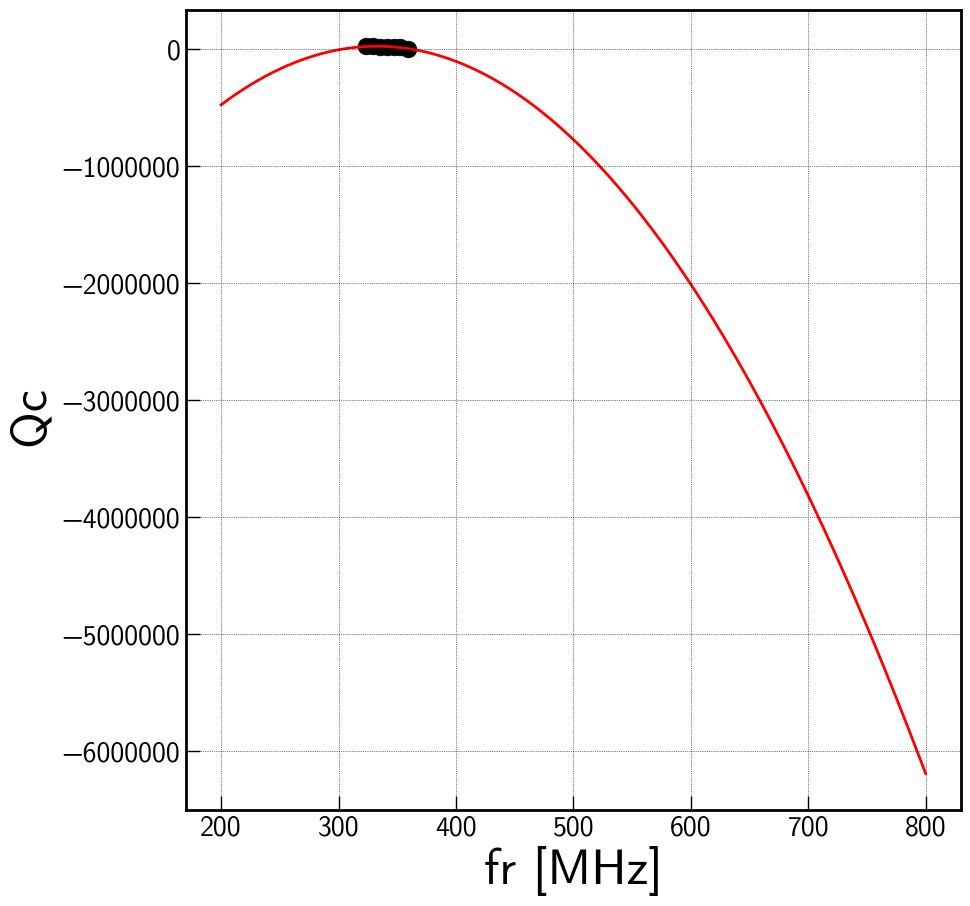
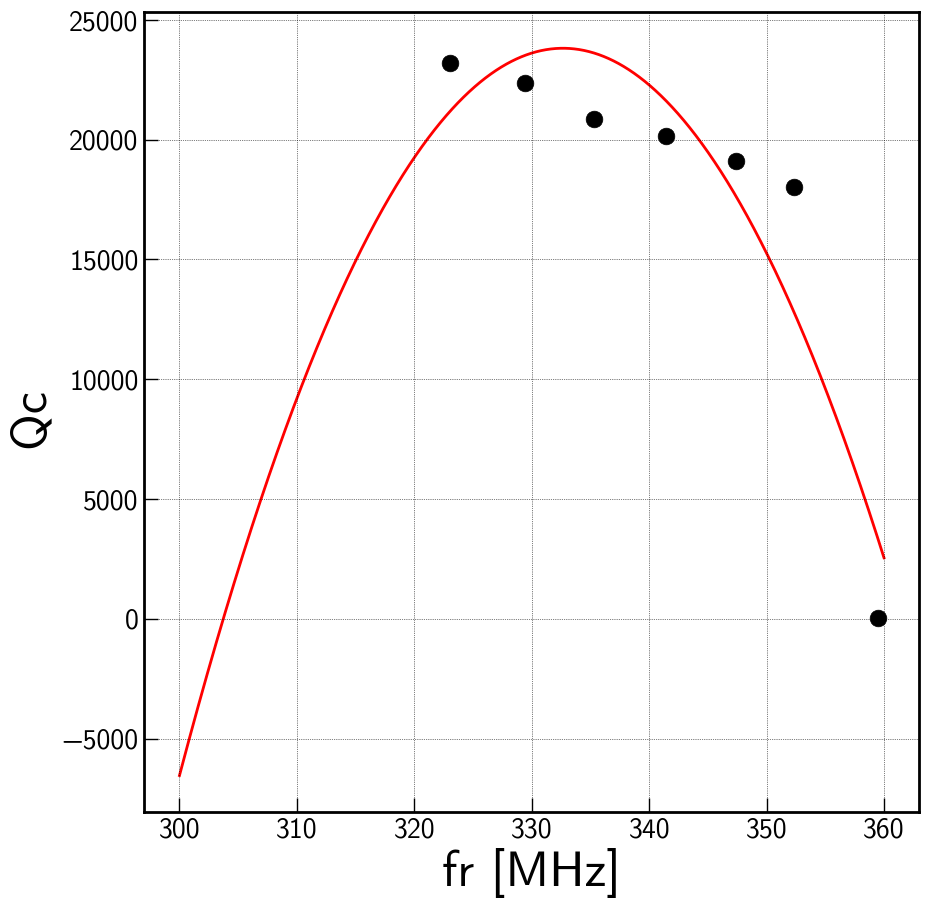
reducing the fitting range

diff --git a/code/tkidmodule_resonatorprediction.py b/code/tkidmodule_resonatorprediction.py
@@ -79,7 +79,7 @@ Qc *= (Ltot/Lind)**2
 print ("Third term in Qc ", Qc)
 
 print ("Qc from simulation vs. predicted ", Qcsim/Qc)
-print ("fr from simulation vs. predicted ", (frsim - fr)/MHz)
+print ("fr from simulation vs. predicted ", (frsim/fr))
 
 plt.figure()
 plt.plot(N, frsim/MHz, 'rs', ms=12, label='From sonnet simulation')

diff --git a/code/ACTKID_extractQcsfromfullresosims.py b/code/ACTKID_extractQcsfromfullresosims.py
@@ -1025,7 +1025,7 @@ if __name__=="__main__":
 
         p = np.polyfit(frs/f0, Qcs, 2)
         print ("Qc fitting parameters vs. freq", p)
-        frfine = np.r_[200:800:2000j]
+        frfine = np.r_[300:360:2000j]
         Qcfine = np.polyval(p, frfine/f0)
         Qcresiduals = (Qcs - np.polyval(p, frs/f0))/Qcs
 

diff --git a/code/reso_fit.py b/code/reso_fit.py
@@ -239,7 +239,7 @@ def do_fit(freq,re,im,plot=False,get_cov=False,verbose=False):
     ydata = np.hstack((re,im))
 
     pdQr = 1./21000
-    pdQe_re = 1./40000
+    pdQe_re = 1./18000
     dQe_im = 0.5*pdQe_re
     fg,Qrg,Qcg,Qcphig,Ag,phig = guess_params(freq, re + 1j*im)
     dQeg = 1./(Qcg*np.exp(1j*Qcphig))
